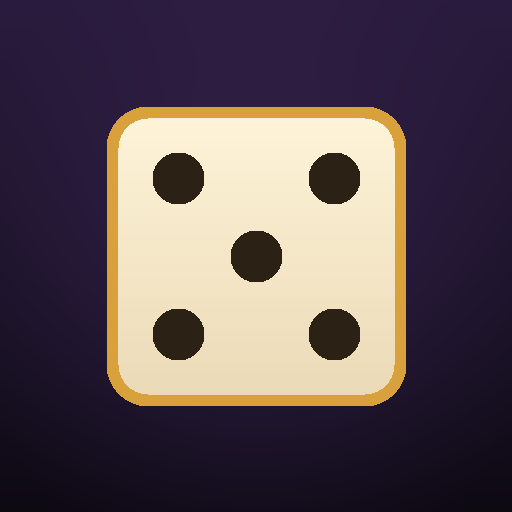
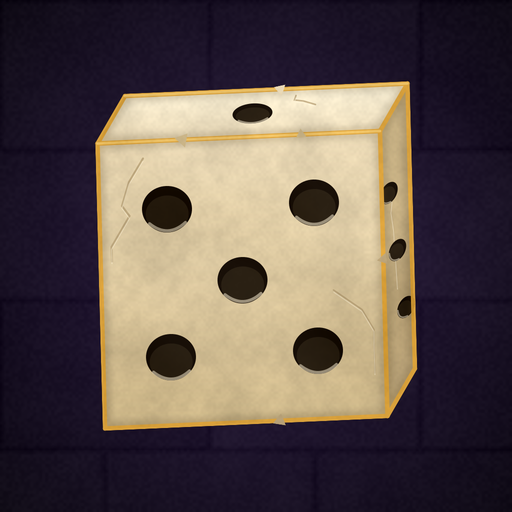
Адаптивная иконка приложения: куб без фона под маской телефона
Иконка сгенерирована по промпту и разложена на слои: куб на прозрачном фоне и
подложка отдельно. Так «фона у логотипа» и нет — телефон сам обрезает иконку
своей маской, круглой или сквиркл.

Куб занимает 54% кадра, а не 62%, как пришло: Android увеличивает слои и
показывает лишь центральные 72%, из-за чего круглая маска срезала кубу края.
Проверялось склейкой слоёв из собранного APK.

Процедурная иконка (tests/make_icon.gd) больше не нужна и удалена.

diff --git a/CLAUDE.md b/CLAUDE.md
@@ -26,6 +26,8 @@ Godot портативный, лежит вне репозитория: `tools\g
 
 Запуск ускоряли трижды, вот что дало эффект (замер на ПК: 1,6 с → 0,86 с): **release-сборка** вместо отладочной (`build-apk.ps1` по умолчанию `--export-release`; отладочная тащит debug-хуки и шаблон на 20 МБ больше), фон уменьшен до 720×1280 и грузится **в фоновом потоке** (`load_threaded_request`, подстановка в `_process` — меню появляется, не дожидаясь текстуры), иконки способностей 512 → 192 (показываются в 44 px), слой правил строится при первом открытии, картинка загрузочной заставки выключена.
 
+**Иконка приложения — адаптивная, из трёх файлов**: `assets/icon_fg.png` (куб на прозрачном, 432×432), `assets/icon_bg.png` (фон, 432×432) и `assets/icon_192.png` для старых Android; они прописаны в `launcher_icons/*` пресета, а `config/icon` в `project.godot` — иконка окна. Android увеличивает слои и обрезает своей маской (круг, сквиркл, квадрат): видно только центральные **72%** кадра, поэтому куб занимает **54%** — при 62% круглая маска срезала ему края. Проверять не по исходнику, а склеив слои **из собранного APK** (`res/mipmap-xxhdpi-v4/icon_*.webp`) и обрезав кругом.
+
 **Подписывать APK можно только тем ключом, которым подписаны предыдущие сборки** (`%APPDATA%\Godot\keystores\debug.keystore`, его создал редактор при первом экспорте). Другой ключ — и обновление поверх на телефоне не встанет: Android откажет из-за несовпадения подписи, игру придётся удалять. Путь и пароль ключа передаются через `GODOT_ANDROID_KEYSTORE_*`, чтобы не оседать в `export_presets.cfg`, который лежит в репозитории.
 
 Грабли Android, найденные на живом телефоне:
